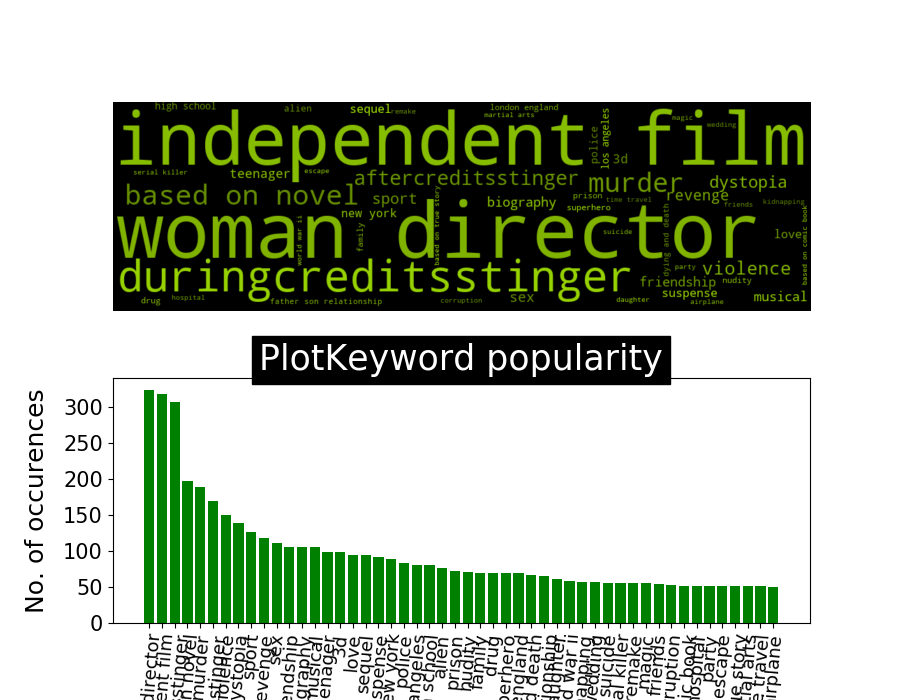
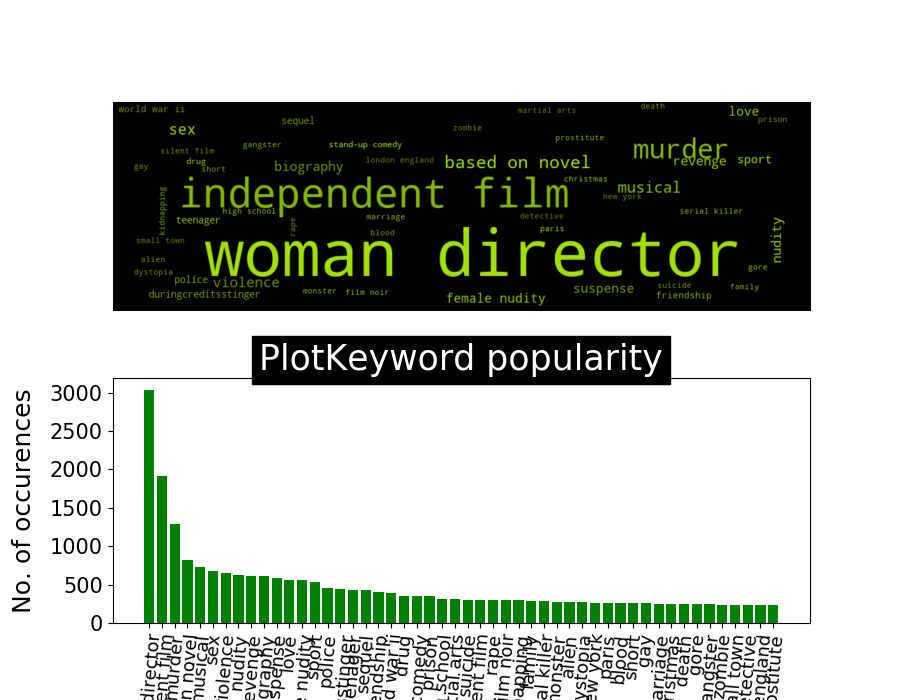
Update the code

diff --git a/src/exploration.py b/src/exploration.py
@@ -1,11 +1,26 @@
 import os
 import json
+import ast
 import pandas as pd
 import numpy as np
 import matplotlib.pyplot as plt
 from wordcloud import WordCloud
 import seaborn as sns
 
+
+'''
+movie metadata:
+adult,belongs_to_collection,budget,genres,homepage,id,imdb_id,
+original_language,original_title,overview,popularity,poster_path,
+production_companies,production_countries,release_date,revenue,
+runtime,spoken_languages,status,tagline,title,video,vote_average,vote_count
+
+keywords:
+id,keywords
+
+credits:
+cast,crew,id
+'''
 
 # a function to save the plt figures.
 def my_pltsavefig(fig_title, mydir='../figure/', fig_extension='.png'):
@@ -17,23 +32,42 @@ def my_pltsavefig(fig_title, mydir='../figure/', fig_extension='.png'):
         return False
 
 
-def load_tmdb_movies(path):
-    df = pd.read_csv(path)
-    df['release_date'] = pd.to_datetime(df['release_date']).apply(
-            lambda x: x.date())
-    json_columns = ['genres', 'keywords', 'production_countries',
+def load_tmdb_dataset(dirname='../the-movies-dataset'):
+    df_meta = pd.read_csv(dirname+'/movies_metadata.csv', dtype={'popularity': object})
+    df_keywords = pd.read_csv(dirname+'/keywords.csv')
+    df_credits = pd.read_csv(dirname+'/credits.csv')
+ 
+    # There are 3 rows here that with id as date like '1970-08-20', so I filtered them out.
+    weird_id_indexs = [index for index, row in df_meta.iterrows() if len(row.id) >= 9]
+    print('record with id in date format:')
+    print(df_meta.loc[weird_id_indexs].id)
+    df_meta = df_meta.drop(weird_id_indexs)
+    df_meta = df_meta.astype({'popularity': float})
+    df_meta['id'] = df_meta['id'].astype(int)
+    df_keywords['id'] = df_keywords['id'].astype(int)
+    df_credits['id'] = df_credits['id'].astype(int)
+
+    def eval_json(node_value):
+        if pd.isnull(node_value): return np.nan
+        else: return ast.literal_eval(node_value)
+
+    json_columns = ['genres', 'production_countries',
             'production_companies', 'spoken_languages']
     for column in json_columns:
-        df[column] = df[column].apply(json.loads)
-    return df
-
-
-def load_tmdb_credits(path):
-    df = pd.read_csv(path)
+        df_meta[column] = df_meta[column].apply(eval_json)
+    df_keywords['keywords'] = df_keywords['keywords'].apply(eval_json)
     json_columns = ['cast', 'crew']
     for column in json_columns:
-        df[column] = df[column].apply(json.loads)
-    return df
+        df_credits[column] = df_credits[column].apply(eval_json)
+    
+    df_meta = df_meta.set_index('id')
+    df_meta = df_meta[~df_meta.index.duplicated()]
+    df_keywords = df_keywords.set_index('id')
+    df_keywords = df_keywords[~df_keywords.index.duplicated()]
+    df_meta['keywords'] = df_keywords['keywords'].copy(deep=True)
+    df_meta = df_meta.reset_index().rename(columns={'index': 'id'})
+    df_credits = df_credits.rename(columns={'id': 'movie_id'})
+    return df_meta, df_credits
 
 
 LOST_COLUMNS = [
@@ -72,7 +106,7 @@ def safe_access(container, index_values):
         for idx in index_values:
             result = result[idx]
         return result
-    except IndexError or KeyError:
+    except (IndexError, KeyError, TypeError) as e:
         return pd.np.nan
 
 
@@ -82,14 +116,23 @@ def get_director(crew_data):
 
 
 def pipe_flattern_names(keywords):
-    return '|'.join([x['name'] for x in keywords])
+    try:
+        return '|'.join([x['name'] for x in keywords])
+    except TypeError:
+        return np.nan
 
 
 def convert_to_original_format(movies, credits):
     tmdb_movies = movies.copy()
+
+    def _get_year(nodevalue):
+        try:
+            return pd.to_datetime(nodevalue).year
+        except ValueError as e:
+            return np.nan
+
     tmdb_movies.rename(columns=TMDB_TO_IMDB_SIMPLE_EQUIVALENCIES, inplace=True)
-    tmdb_movies['title_year'] = pd.to_datetime(tmdb_movies['release_date']).apply(
-            lambda x: x.year)
+    tmdb_movies['title_year'] = tmdb_movies['release_date'].map(_get_year)
     tmdb_movies['country'] = tmdb_movies['production_countries'].apply(
             lambda x: safe_access(x, [0, 'name']))
     tmdb_movies['language'] = tmdb_movies['spoken_languages'].apply(
@@ -111,11 +154,15 @@ def convert_to_original_format(movies, credits):
 # get all the unique key words in a given feature.
 def all_keywords(df, col_name):
     unique_words = set()
-    for liste_keywords in df[col_name].str.split('|').values:
-        # iff NaN
-        if isinstance(liste_keywords, float): continue
-        unique_words = unique_words.union(liste_keywords)
-    return unique_words
+    try:
+        for liste_keywords in df[col_name].str.split('|').values:
+            # iff NaN
+            if isinstance(liste_keywords, float): continue
+            unique_words = unique_words.union(liste_keywords)
+        return unique_words
+    except AttributeError:
+        print('In all_keywords(), catch AttributeError: col_name:', col_name)
+        return unique_words
 
 
 # get the frequency of all the unique key words.
@@ -206,7 +253,7 @@ def group_by_decade_and_show(df):
     f, ax = plt.subplots(figsize=(11, 6))
     labels = [label(s) for s in test.index]
     sizes = test['count'].values
-    explode = [0.2 if sizes[i] < 100 else 0.01 for i in range(11)]
+    explode = [0.2 if sizes[i] < 100 else 0.01 for i in range(len(sizes))]
     ax.pie(sizes, explode=explode, labels=labels,
             autopct=lambda x: '{:1.0f}%'.format(x) if x > 1 else '',
             shadow=False, startangle=0)

diff --git a/src/run.py b/src/run.py
@@ -3,8 +3,7 @@ ref: https://www.kaggle.com/sohier/film-recommendation-engine-converted-to-use-t
 '''
 import os
 import nltk
-from exploration import load_tmdb_movies, \
-        load_tmdb_credits, convert_to_original_format, \
+from exploration import load_tmdb_dataset, convert_to_original_format, \
         all_keywords, count_word, drop_old_columns, \
         missing_values, wordcloud_and_histogram, \
         group_by_decade_and_show
@@ -15,14 +14,17 @@ from cleaning import deduplicate, keywords_inventory, \
         visualize_filling_factor, pairplot
 from engine import find_similarities
 import matplotlib.pyplot as plt
-
+import numpy as np
+import pandas as pd
 
 nltk.download('wordnet')
+pd.set_option('display.max_colwidth', -1)
 
 
 def main():
-    movies = load_tmdb_movies('../data/tmdb_5000_movies.csv')
-    credits = load_tmdb_credits('../data/tmdb_5000_credits.csv')
+    #movies = load_tmdb_movies('../data/tmdb_5000_movies.csv')
+    #credits = load_tmdb_credits('../data/tmdb_5000_credits.csv')
+    movies, credits = load_tmdb_dataset()
     init_tmdb_movies = convert_to_original_format(movies, credits)
 
     liste = all_keywords(init_tmdb_movies, 'plot_keywords')
@@ -62,7 +64,8 @@ def main():
     print('Find out records that miss title year.')
     df_filling = df_var_cleaned.copy(deep=True)
     missing_year_info = df_filling[df_filling['title_year'].isnull()][
-            ['director_name', 'actor_1_name', 'actor_2_name', 'actor_3_name']]
+            ['movie_title', 'director_name', \
+                    'actor_1_name', 'actor_2_name', 'actor_3_name']]
     print(missing_year_info[:10])
     fill_year(df_filling)
     extract_keywords_from_title(df_filling)
@@ -72,7 +75,10 @@ def main():
     missing_df = missing_values(df_filling)
     print('\n\n\nFinally, filling factor of each feature(column):')
     print(missing_df)
-    
+    print('dataset size before dropping: ', df_filling.shape[0])
+    df_filling = df_filling.replace([np.inf, -np.inf], np.nan)\
+            .dropna(subset=df_filling.columns.values.tolist())
+    print('dataset size after dropping: ', df_filling.shape[0])
     print('\n\n\n' + '='*40)
     print('Below is the test cases:')
     for i in range(0, 20, 3):

diff --git a/src/engine.py b/src/engine.py
@@ -2,7 +2,7 @@ import math
 from sklearn.neighbors import NearestNeighbors
 from fuzzywuzzy import fuzz
 import pandas as pd
-
+import numpy as np
 
 gaussian_filter = lambda x, y, sigma: math.exp(-(x - y)**2 / (2*sigma**2))
 
@@ -36,7 +36,8 @@ def add_variables(df, REF_VAR):
         for index, row in df.iterrows():
             if pd.isnull(row[category]): continue
             for s in row[category].split('|'):
-                if s in REF_VAR: df.at[index, s] = 1
+                if s in REF_VAR:
+                    df.at[index, s] = 1
     return df
 
 
@@ -51,7 +52,7 @@ def recommend(df, id_entry):
     variables = entry_variables(df_copy, id_entry)
     variables += list(liste_genres)
     df_new = add_variables(df_copy, variables)
-
+    df_new = df_new.replace([np.nan, np.inf, -np.inf], 0)
     X = df_new[variables].values
     nbrs = NearestNeighbors(n_neighbors=N, algorithm='auto',
             metric='euclidean').fit(X)
@@ -144,7 +145,7 @@ def remove_sequels(film_selection):
 def find_similarities(df, id_entry, del_sequels = True, verbose = False):
     if verbose:
         print(90*'_' + '\nQUERY: films similar to id={} -> \'{}\''.format(
-            id_entry, str(df.iloc[[id_entry]]['movie_title'])))
+            id_entry, str(df.iloc[[id_entry]]['movie_title'].values)))
     liste_films = recommend(df, id_entry)
     parameter_films = extract_parameters(df, liste_films)
     film_selection = []

diff --git a/src/cleaning.py b/src/cleaning.py
@@ -10,22 +10,19 @@ from exploration import all_keywords, count_word, \
         missing_values, my_pltsavefig
 
 
-# Actually this function does not change df.
 def deduplicate(df):
-    # actually no duplicate
-    doubled_entries = df[df.id.duplicated()]
-    #print(doubled_entries.shape)
-
     # check whether there is duplicate of movie title.
     df_temp = df
     list_var_duplicates = ['movie_title', 'title_year', 'director_name']
     liste_duplicates = df_temp['movie_title']\
             .map(df_temp['movie_title'].value_counts() > 1)
+    duplicate_index = [i for i, ele in enumerate(liste_duplicates) if type(ele) != bool]
+    liste_duplicates.loc[duplicate_index] = [False] * len(duplicate_index)
     print('Num of entries that have the same ' +
             'movie title as some other entries: {}\nThe details:'.format(
         len(df_temp[liste_duplicates][list_var_duplicates])))
     print(df_temp[liste_duplicates][list_var_duplicates].sort_values('movie_title'))
-    df_duplicate_cleaned = df_temp
+    df_duplicate_cleaned = df_temp.drop_duplicates(subset=['movie_title'])
     return df_duplicate_cleaned
 
 
